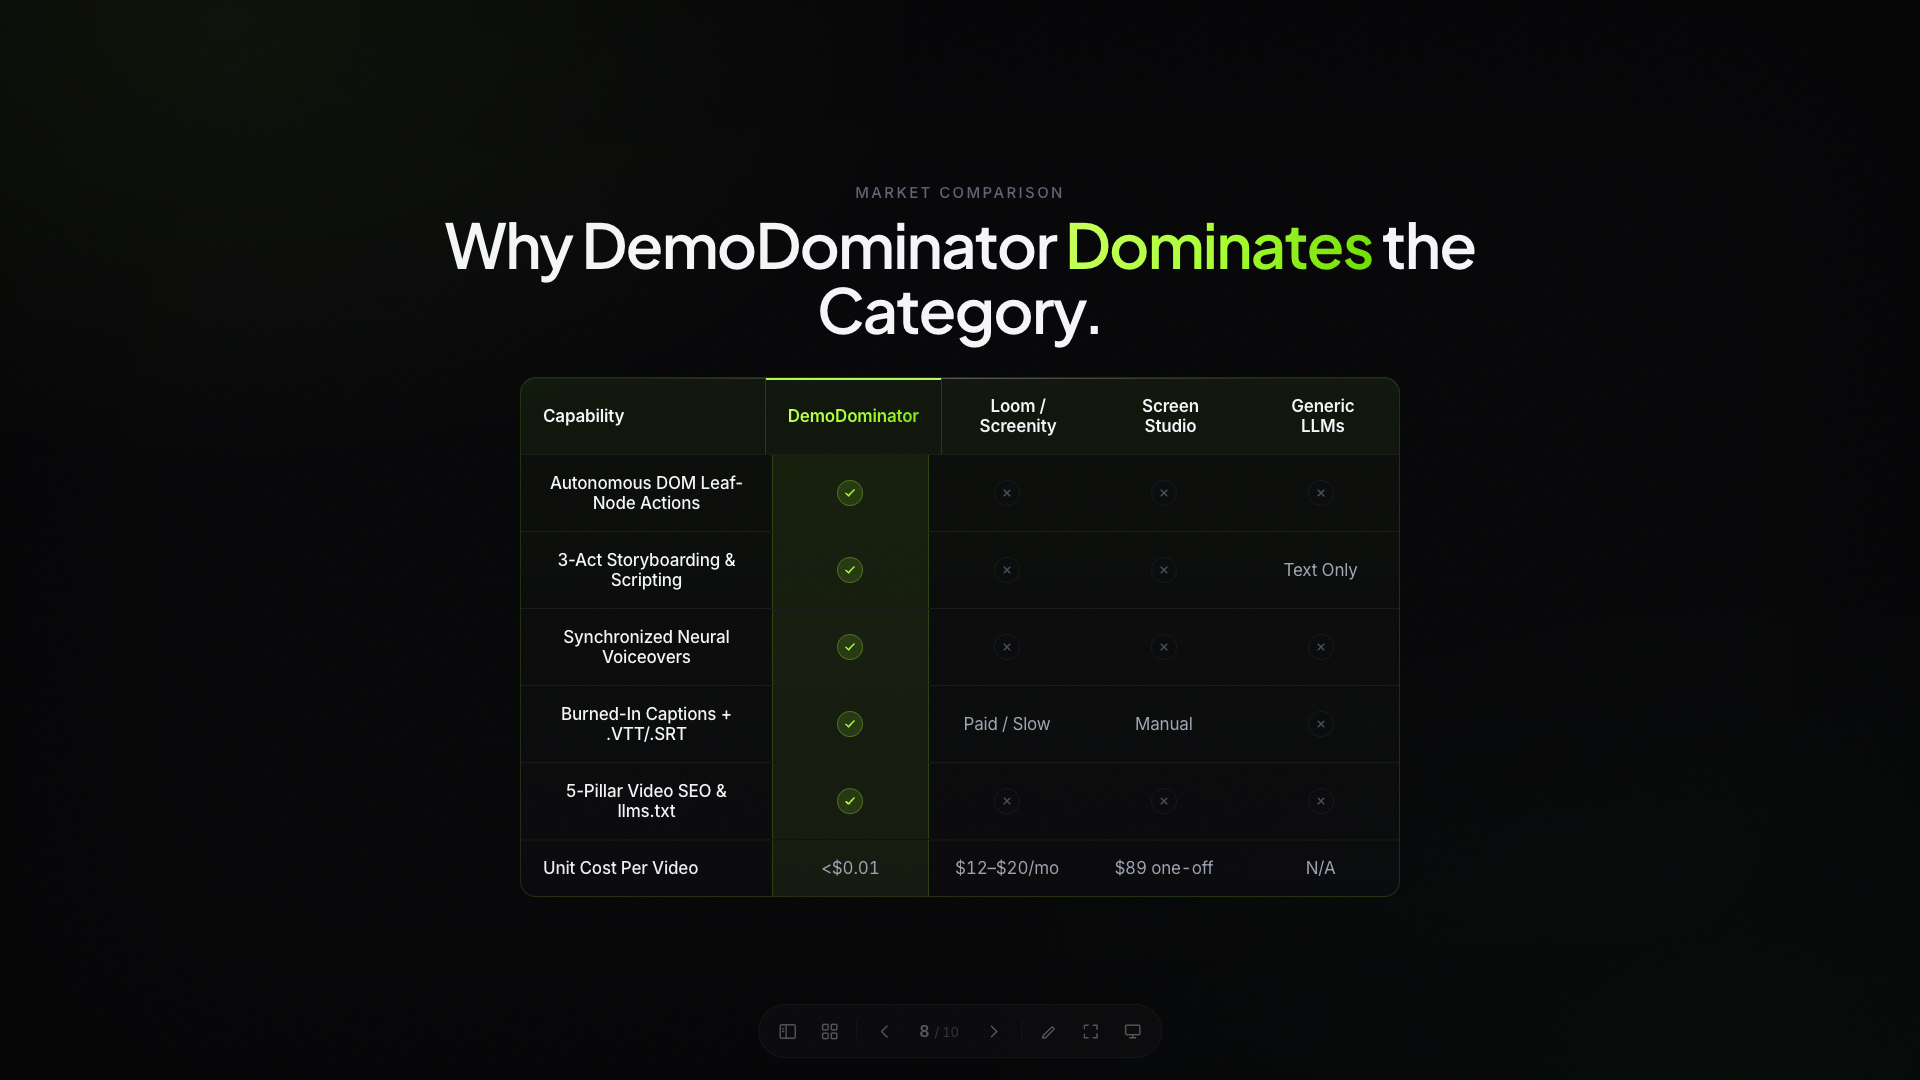
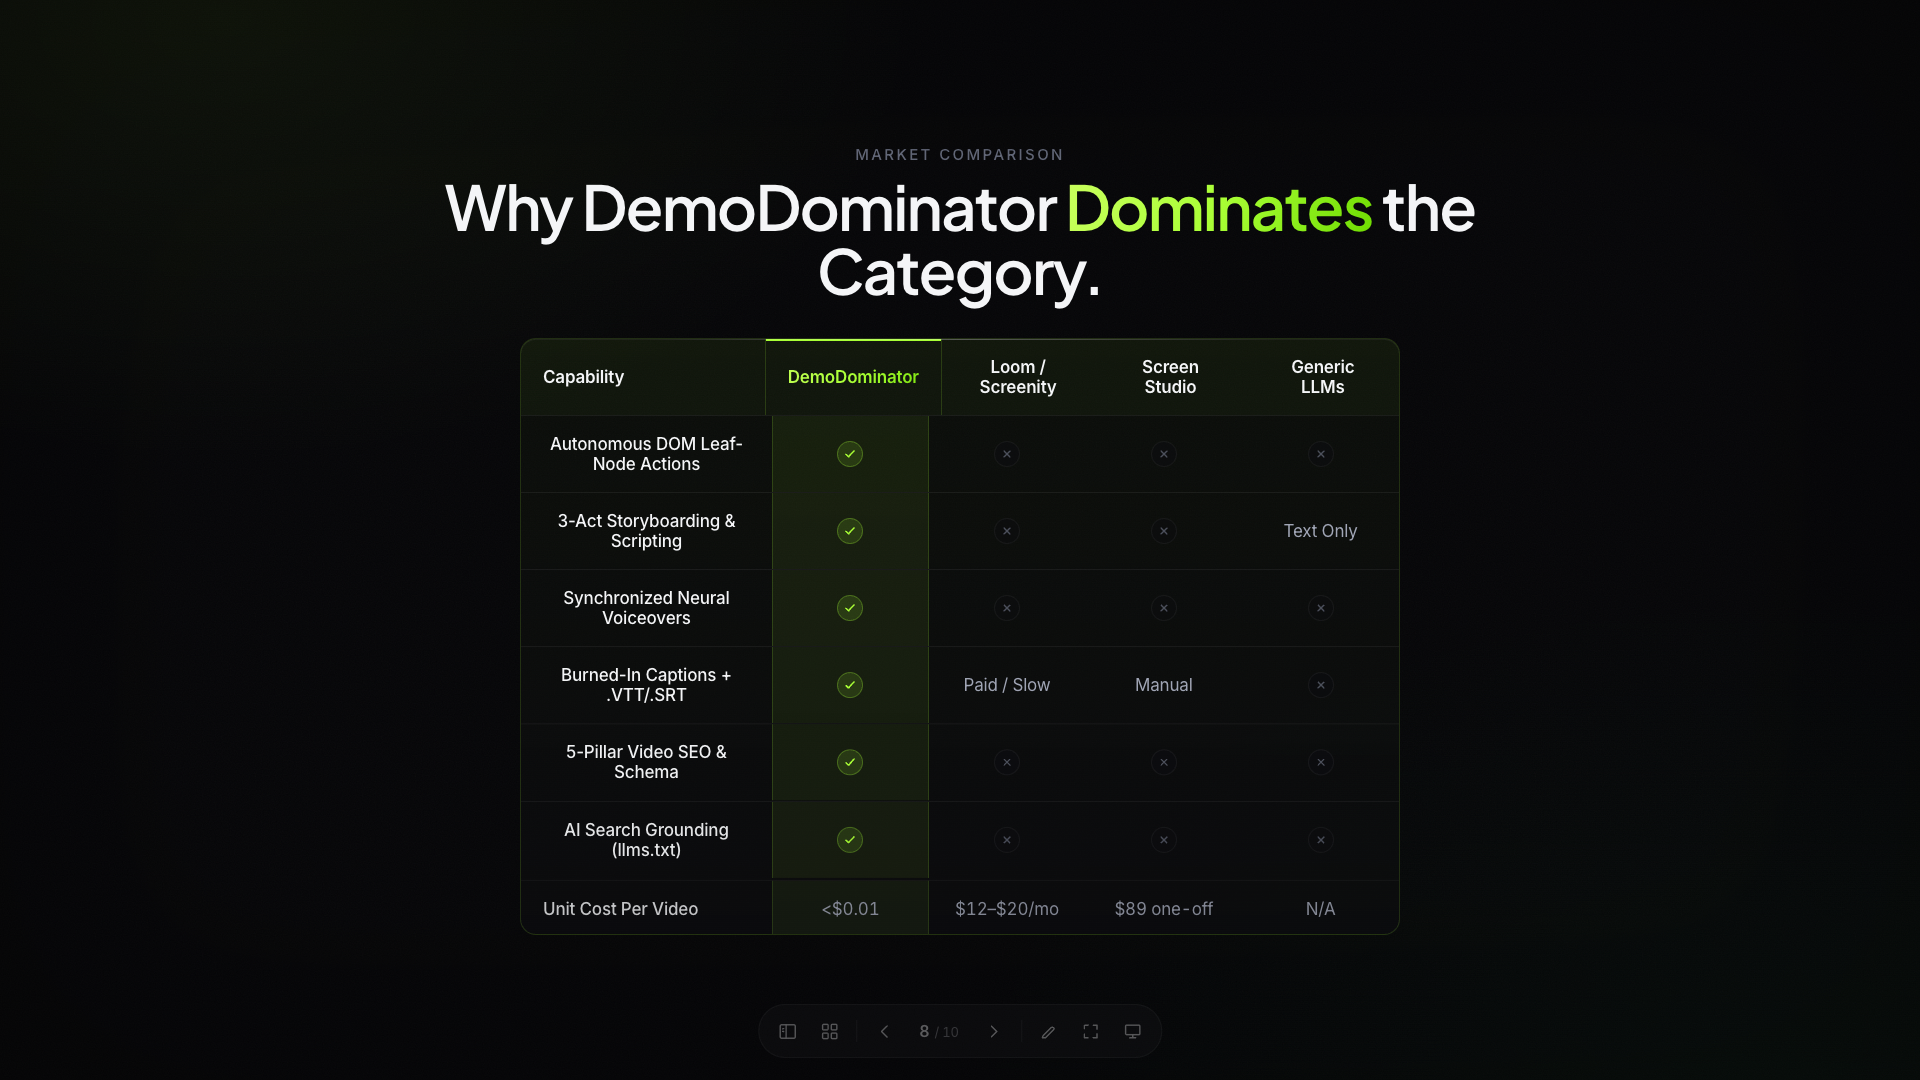
Refine Slide 2 & narrative: remove 5-day exaggeration, emphasize Video SEO engine positioning

diff --git a/src/App.tsx b/src/App.tsx
@@ -20,7 +20,7 @@ export default function App() {
       {/* Slide 1: Cover Page */}
       <Cover
         nav="Cover"
-        notes="Welcome judges and builders to DemoDominator. Built for the Google Cloud & Devpost 'All Things Agentic' Hackathon in the Taskmaster Track by Dorien Van den Abbeele. DemoDominator transforms any live web or mobile URL into studio-grade 4K product walkthroughs and automated 5-Pillar Google Video SEO packages in under 25 seconds for less than 1 cent."
+        notes="Welcome judges and builders to DemoDominator. Built for the Google Cloud & Devpost 'All Things Agentic' Hackathon in the Taskmaster Track by Dorien Van den Abbeele. DemoDominator is not just another screen recorder—it is an autonomous Video SEO and GEO engine that transforms any live web or mobile URL into studio-grade 4K product walkthroughs and complete Google Video SEO packages in under 25 seconds for less than 1 cent."
         kicker="Google Cloud 'All Things Agentic' Hackathon · Taskmaster Track"
         title={
           <>
@@ -34,25 +34,25 @@ export default function App() {
       {/* Slide 2: The Problem (Contrast) */}
       <Contrast
         nav="The Problem"
-        notes="Why did we build this? Every SaaS founder and developer knows that static screenshots have poor conversion, while recording video walkthroughs is excruciatingly slow, expensive, and fragile. You spend 5 days scripting, recording re-takes, syncing voice tracks, and transcribing captions, only for the video to remain invisible to search engines without structured schema. DemoDominator executes the entire lifecycle autonomously in 25 seconds."
-        kicker="The $10,000 SaaS Demo Dilemma"
-        title="Manual screencasts are slow, expensive, and invisible to search."
+        notes="Most builders already use video tools like Loom, OBS, or Screen Studio. But standard recorders only capture raw pixels—they leave your video completely invisible to search engines with zero structured schema. Recording retakes, syncing audio, and transcribing captions is still manual work. DemoDominator stands apart because it is fundamentally a Video SEO engine: it autonomously navigates your live app, records the walkthrough, and packages it with structured VideoObject schema, key moments, sitemaps, and llms.txt for instant Google and AI search ranking."
+        kicker="Beyond Standard Screen Recorders"
+        title="Standard recorders capture pixels. DemoDominator delivers ranked Video SEO."
         left={{
-          label: "Manual Video Production",
-          title: "5-Day Manual Grind",
+          label: "Standard Video Recorders",
+          title: "Manual Recording & Zero SEO",
           points: [
-            "Manual 3-act scriptwriting and storyboard drafting",
-            "Dozens of screen retakes due to cursor stutters & typos",
-            "Costly voice actors or manual timeline audio alignment",
-            "Zero Google VideoObject Schema or search discoverability",
-            "High bounce rates from silent autoplay on mobile feeds"
+            "Multiple manual screen takes & retakes for every update",
+            "Manual timeline editing & cut-away adjustments",
+            "Manual subtitle transcription & formatting",
+            "Zero Google VideoObject Schema or Key Moments",
+            "Invisible to Google Search & AI engines (Perplexity/Gemini)"
           ]
         }}
         right={{
           label: "With DemoDominator",
-          title: "25s Autonomous Pipeline",
+          title: "Autonomous Pipeline + Full SEO",
           points: [
-            "Autonomous DOM leaf-node discovery & action planning",
+            "Autonomous DOM leaf-node discovery & kinetic directing",
             "Gemini 3.7 Flash 3-act storyboarding with Pydantic schemas",
             "Calibrated neural voice synthesis with millisecond audio sync",
             "Complete 5-Pillar Video SEO & GEO suite (Schema + llms.txt)",
@@ -66,7 +66,7 @@ export default function App() {
         nav="Agent Pipeline"
         notes="This is our 6-phase autonomous agent pipeline running inside Google Antigravity SDK. From the moment a URL is entered, the agent inspects the live DOM, plans the 3-act journey with Gemini 3.7 Flash, synthesizes voiceovers, directs the headless browser over CDP, multiplexes the video in memory, and generates the full SEO package."
         kicker="Autonomous Orchestration"
-        title="The 6-Phase End-to-End Agent Pipeline."
+        title="From URL to Ranked Video SEO in 6 Autonomous Phases."
         items={[
           {
             title: "1. DOM Leaf-Node Walker",
@@ -200,7 +200,7 @@ async def multiplex_walkthrough_stream(
       {/* Slide 7: 5-Pillar SEO & GEO Dominance (StatGrid) */}
       <StatGrid
         nav="5-Pillar SEO"
-        notes="Rendering a video is only half the battle — distribution is what matters. Every generation outputs our complete 5-Pillar Video SEO and GEO Suite: VideoObject Schema with Key Moments clips for +41% Google CTR, Dwell Time Maximizer widget for 2.6x on-page engagement, and token-efficient llms.txt markdown for AI search grounding."
+        notes="Here is what truly sets DemoDominator apart from standard screen recorders: the 5-Pillar Video SEO and GEO Suite. Video without SEO is invisible. Every generation automatically outputs VideoObject Schema with Key Moments clips for +41% Google CTR, Dwell Time Maximizer widget for 2.6x on-page engagement, and token-efficient llms.txt markdown for AI search grounding."
         kicker="Organic Video Distribution"
         title="The 5-Pillar Video SEO & GEO Dominance Suite."
         stats={[
@@ -226,7 +226,7 @@ async def multiplex_walkthrough_stream(
       <Slide
         center
         nav="Competitive Matrix"
-        notes="Comparing DemoDominator against Loom, Screen Studio, Screenity, and generic LLM chatbots. Traditional screen recorders require manual human operation and provide zero SEO packaging. Generic LLMs cannot act in real web DOMs or render video. DemoDominator unites autonomous acting, kinetic recording, neural voice, and complete SEO distribution."
+        notes="Comparing DemoDominator against Loom, Screen Studio, Screenity, and generic LLMs. Standard screen recorders only capture raw pixels and provide zero SEO packaging. Generic LLMs cannot act in real web DOMs or render video. DemoDominator unites autonomous acting, kinetic recording, neural voice, and complete Video SEO distribution."
       >
         <Reveal>
           <div className="kicker" style={{ marginBottom: 10 }}>
@@ -264,7 +264,11 @@ async def multiplex_walkthrough_stream(
               values: [true, 'Paid / Slow', 'Manual', false]
             },
             {
-              label: '5-Pillar Video SEO & llms.txt',
+              label: '5-Pillar Video SEO & Schema',
+              values: [true, false, false, false]
+            },
+            {
+              label: 'AI Search Grounding (llms.txt)',
               values: [true, false, false, false]
             },
             {
